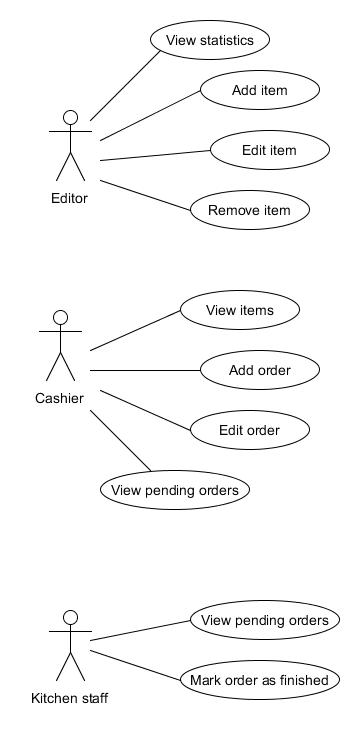
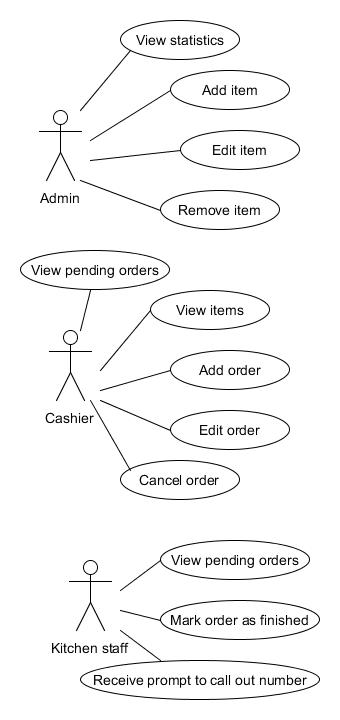
edited readme and use case diagram

diff --git a/README.md b/README.md
@@ -1,4 +1,13 @@
 # Take-Away Ticket Manager
 A system that allows users to order food then print a ticket which will then be called out by the server.
 
+# Running
+```
+node app
+```
+
+# Requirements
+To do
+
+# Use case diagram
 ![Use case diagram](/docs/useCaseDiagram/useCaseDiagram.jpg "Use case digram")
